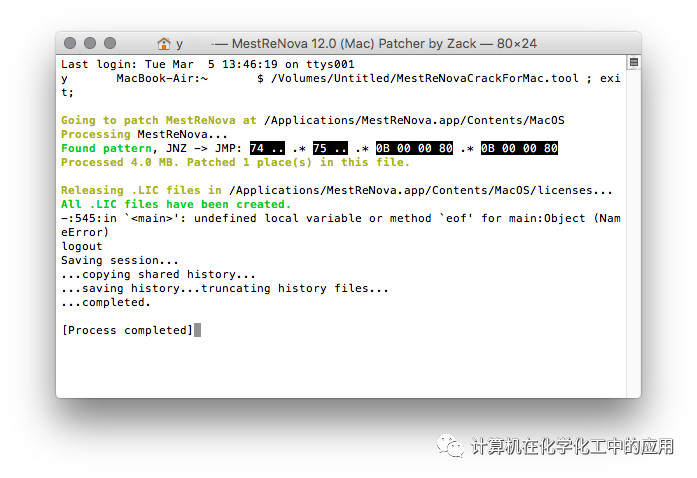
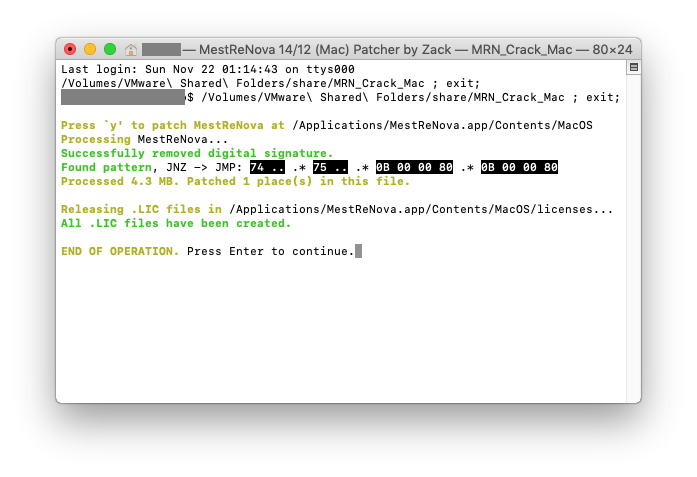
Fix #3

diff --git a/mestrenova/mrn.md b/mestrenova/mrn.md
@@ -1,13 +1,23 @@
-# MestReNova 12.0.0~14.1.0 [Win/Mac/Ubuntu] [x86/x64] 通用补丁
-**<p align="center">Z.-H. Sun 2020年3月15日</p>**
+# MestReNova 12.0.0~14.2.0 [Win/Mac/Ubuntu] [x86/x64] 通用补丁
+**<p align="center">Z.-H. Sun 2020年3月15日 更新于 2020年11月22日</p>**
 
-目前MestReNova的Windows平台下已更新到14.1.0 ~~12.0.4~~，但网上只有14.0 ~~12.0.2~~破解，且只支持32位；Mac平台只有“史蒂芬周博客”的12.0.0破解，而且“Mnova Verify”插件的许可文件写得有问题；没有Linux平台的破解。
+目前MestReNova的Windows平台下已更新到14.2.0 ~~12.0.4~~，但网上只有14.0 ~~12.0.2~~破解，且只支持32位；Mac平台只有“史蒂芬周博客”的12.0.0破解，而且“Mnova Verify”插件的许可文件写得有问题；没有Linux平台的破解。
 
-而本补丁是Windows、Mac、Ubuntu（新增） 32/64位、12.0.0~14.1.0 ~~12.0.4~~版本通用的，只需先下载安装官方程序，然后双击运行本补丁即可正常使用。补丁程序**源码**公开在该[仓库](https://github.com/Z-H-Sun/MRN-ADF_Patch)中。
+而本补丁是Windows、Mac、Ubuntu（新增） 32/64位、12.0.0~14.2.0 ~~12.0.4~~版本通用的，只需先下载安装官方程序，然后双击运行本补丁即可正常使用。补丁程序**源码**公开在该[仓库](https://github.com/Z-H-Sun/MRN-ADF_Patch)中。
+
+## 仅对 Mac 用户的附加说明 (2020/11/22)
+
+（原因详见[Issue #3](https://github.com/Z-H-Sun/CS_CCME_Posts/issues/3)）
+
+* 对于 14.2.0 及以上版本，请使用[最新的补丁程序](https://github.com/Z-H-Sun/MRN-ADF_Patch/releases/download/v2.12/MRN_Crack_Mac)，其中解决了数字签名的问题从而**防止闪退**
+* 如果你已经将系统更新至 MacOS 11，那么使用低版本的 MestReNova 会闪退，这是由于 NMR Predictor 插件对新系统不兼容的问题（系统库缺失），可采取以下两种办法 **之一**：
+
+  * 更新至最新版本 14.2.0 并使用最新补丁程序 **（推荐）；或**
+  * 暂时屏蔽 NMR Predictor，反正用处不是很大。最简单的方法是删除对应的许可文件（显示包内容 > Contents > MacOS > license > NMRPredict Desktop.lic），只要对应部分没有激活则相应的问题程序就不会运行
 
 ## 使用方法
 * 下载、安装对应平台版本的[官方安装程序](http://mestrelab.com/download/mnova/)
-* 下载破解补丁文件至任意位置：[Windows](https://github.com/Z-H-Sun/MRN-ADF_Patch/releases/download/v2.10/MestReNovaCrack.exe) / [Mac](https://github.com/Z-H-Sun/MRN-ADF_Patch/releases/download/v2.10/MRN_Crack_Mac) / [Ubuntu](https://github.com/Z-H-Sun/MRN-ADF_Patch/releases/download/v2.10/MRN_Crack_Ubuntu)
+* 下载破解补丁文件至任意位置：[Windows](https://github.com/Z-H-Sun/MRN-ADF_Patch/releases/download/v2.10/MestReNovaCrack.exe) / [Mac](https://github.com/Z-H-Sun/MRN-ADF_Patch/releases/download/v2.12/MRN_Crack_Mac) / [Ubuntu](https://github.com/Z-H-Sun/MRN-ADF_Patch/releases/download/v2.10/MRN_Crack_Ubuntu)
 
 * Windows下：
 
@@ -26,7 +36,7 @@
 
   * 请首先配置`ruby`环境。使用`sudo apt-get install ruby-full`安装最新版ruby，或者对于non-sudoer用户可选择自行编译
   * 终端中运行`ruby </path/to/>MRN_Crack_Ubuntu`，按y确认
-* 本补丁运行时已经包含了写入许可文件的步骤，因此运行结束后即可正常打开和运行MestReNova 12.0~14.1。
+* 本补丁运行时已经包含了写入许可文件的步骤，因此运行结束后即可正常打开和运行MestReNova 12.0~14.2。
 
 ## 运行效果图
 *<p align="center"><img src="/mestrenova/1.jpg" height="30%" width="30%">  <img src="/mestrenova/0.jpg" height="39%" width="39%"><br>左：Windows；右：Mac</p>*
